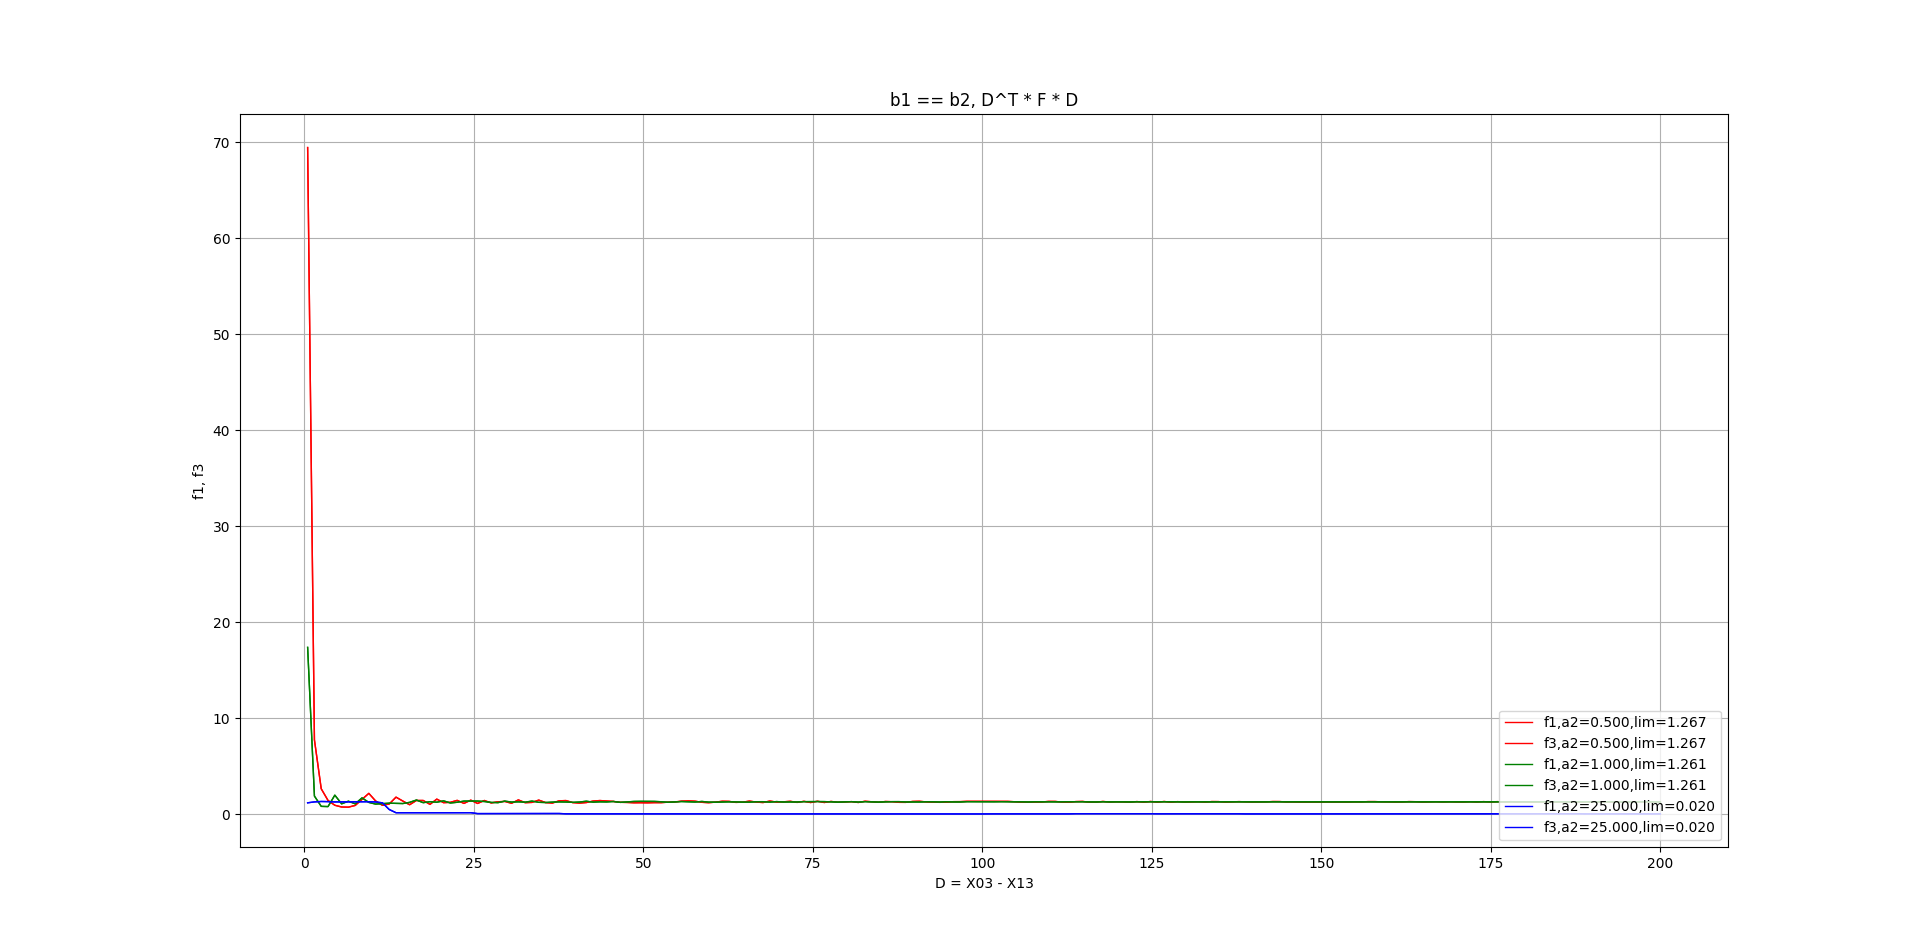
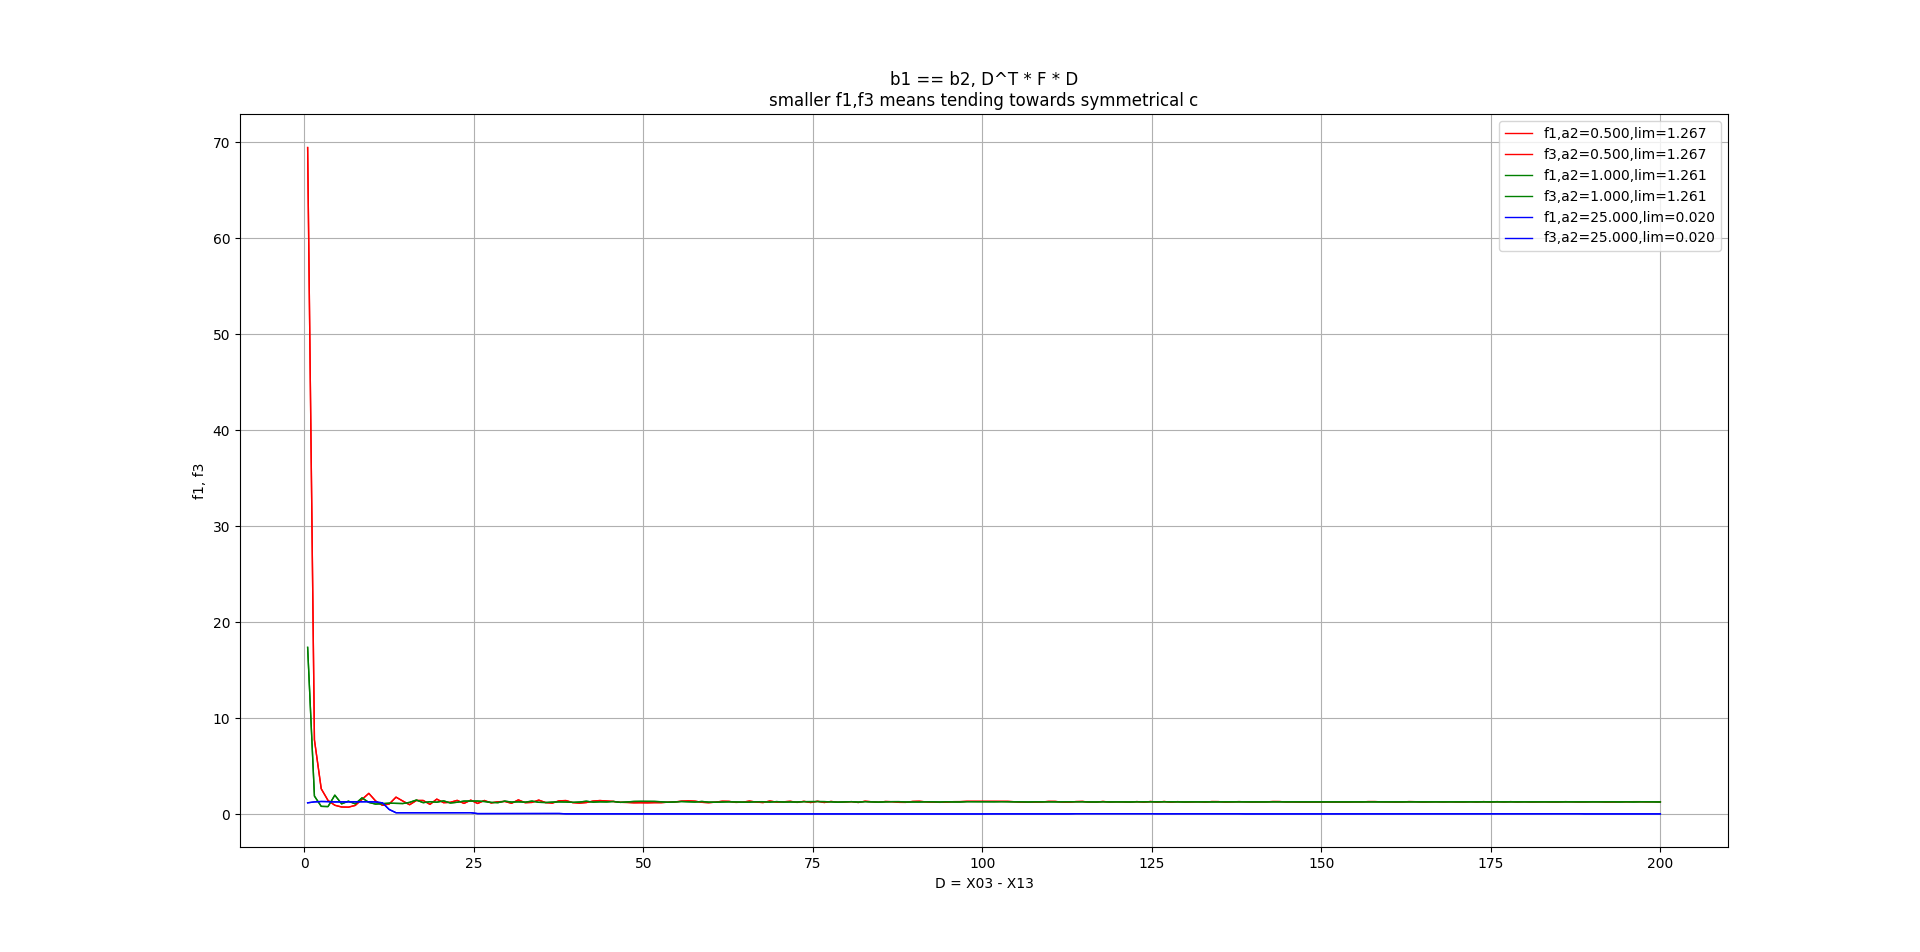
symmetry

Changed region(s): [[0.7812, 0.7311, 0.9062, 0.8834], [0.7812, 0.1218, 0.9062, 0.2742], [0.4062, 0.0609, 0.625, 0.1218]]

diff --git a/231/research/symmetry_intuition.py b/231/research/symmetry_intuition.py
@@ -220,7 +220,7 @@ if __name__ == '__main__':
     ax1.set_xlabel('D = X03 - X13')
     ax1.set_ylabel('f1, f3')
 
-    plt.title('b1 == b2, D^T * F * D')
+    plt.title('b1 == b2, D^T * F * D\nsmaller f1,f3 means tending towards symmetrical c')
     plt.show()
 
 
